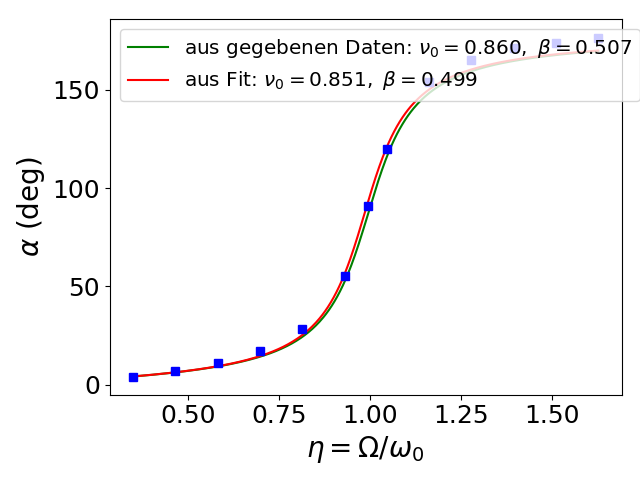
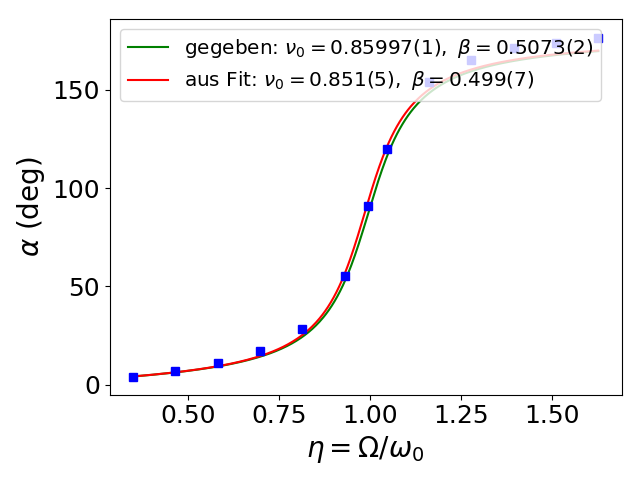
Fehler in den Plots automatisch generiert

Changed region(s): [[0.2812, 0.0625, 1.0, 0.1875], [0.9375, 0.1875, 1.0, 0.2188]]

diff --git a/Versuch2/scripts/schwing_period.py b/Versuch2/scripts/schwing_period.py
@@ -6,7 +6,7 @@ import sys
 sys.path.insert(0,"../../scripts")
 import data_manager as dm
 import fit_functions as ft
-from myPlot import Settings, plot, plot_multi_2
+from myPlot import Settings, plot, plot_multi_2, error_string
 
 
 def get_settings():
@@ -93,16 +93,27 @@ def plot_dampf_smooth(sets,filter_length):
     deviation_smooth = smooth(deviation,filter_length)
     time_smooth = time[filter_length:-filter_length]
     smooth_params, smooth_cov = curve_fit(f,time_smooth,deviation_smooth)
+
+    raw_freq, raw_beta = raw_params[1], raw_params[2]
+    raw_freq_str, raw_beta_str = error_string(raw_freq, np.sqrt(raw_cov[1][1])), error_string(raw_beta, np.sqrt(raw_cov[2][2]))
+    smooth_freq, smooth_beta = smooth_params[1], smooth_params[2]
+    smooth_freq_str, smooth_beta_str = error_string(smooth_freq, np.sqrt(smooth_cov[1][1])), error_string(smooth_beta, np.sqrt(smooth_cov[2][2]))
     
     x_fit = np.linspace(min(time), max(time), fit_samples_number)
     y_fit = [f(x,*raw_params) for x in x_fit]
     y_fit_smooth = f(x_fit, *smooth_params)
     print ("LENGTH OF YS: " + str(len(y_fit_smooth)) + " " + str(len(y_fit)))
     print ("This is smooth covariance: " + str(smooth_cov))
+    #sets.graph_label = ["","",
+    #                    r"$y = A\:\cos(\omega t + \phi)\: e^{-\beta t}$" + "\n"
+    #                    r"$\nu= 2\pi\omega = {:.4f} \:Hz,\ \beta = {:.9f}\:$".format(raw_params[1],raw_params[2]) + r"$s^{-1}$",
+    #                    r"$\nu= 2\pi\omega = {:.4f} \:Hz,\ \beta = {:.9f}\:$".format(smooth_params[1],smooth_params[2]) + r"$s^{-1}$"]
+    
     sets.graph_label = ["","",
                         r"$y = A\:\cos(\omega t + \phi)\: e^{-\beta t}$" + "\n"
-                        r"$\nu= 2\pi\omega = {:.4f} \:Hz,\ \beta = {:.9f}\:$".format(raw_params[1],raw_params[2]) + r"$s^{-1}$",
-                        r"$\nu= 2\pi\omega = {:.4f} \:Hz,\ \beta = {:.9f}\:$".format(smooth_params[1],smooth_params[2]) + r"$s^{-1}$"]
+                        r"$\nu= 2\pi\omega = {} \:Hz,\ \beta = {}\:$".format(raw_freq_str,raw_beta_str) + r"$s^{-1}$",
+                        r"$\nu= 2\pi\omega = {} \:Hz,\ \beta = {}\:$".format(smooth_freq_str,smooth_beta_str) + r"$s^{-1}$"]
+    
     fig, ax = plot_multi_2(sets = sets, x_values = [time,time_smooth,x_fit,x_fit], y_values = [deviation,deviation_smooth,y_fit,y_fit_smooth])
 
 def plot_dampf(sets):
@@ -118,7 +129,11 @@ def plot_dampf(sets):
     deviation = [d-offset for d in deviation_raw]
     raw_params[-1] = 0
 
-    sets.fitted_graph_label += "\n" + r"$\nu= 2\pi\omega = {:.4f} \:Hz,\ \beta = {:.3f}\:$".format(raw_params[1],raw_params[2]) + r"$s^{-1}$"
+    freq, beta = raw_params[1], raw_params[2]
+    freq_str, beta_str = error_string(freq, np.sqrt(raw_cov[1][1])), error_string(beta, np.sqrt(raw_cov[2][2]))
+
+    #sets.fitted_graph_label += "\n" + r"$\nu= 2\pi\omega = {:.4f} \:Hz,\ \beta = {:.3f}\:$".format(raw_params[1],raw_params[2]) + r"$s^{-1}$"
+    sets.fitted_graph_label += "\n" + r"$\nu= 2\pi\omega = {} \:Hz,\ \beta = {}\:$".format(freq_str,beta_str) + r"$s^{-1}$"
 
     fig, ax = plot(sets, time, deviation, f_to_fit = f, params = raw_params)
 
@@ -134,16 +149,27 @@ def plot_frei_smooth(sets,filter_length):
     deviation_smooth = smooth(deviation,filter_length)
     time_smooth = time[filter_length:-filter_length]
     smooth_params, smooth_cov = curve_fit(f,time_smooth,deviation_smooth, p0 = [2,0.8,0])
+
+    raw_freq = raw_params[1]
+    raw_freq_str = error_string(raw_freq, np.sqrt(raw_cov[1][1]))
+    smooth_freq = smooth_params[1]
+    smooth_freq_str = error_string(smooth_freq, np.sqrt(smooth_cov[1][1]))
+
     
     x_fit = np.linspace(min(time), max(time), fit_samples_number)
     y_fit = [f(x,*raw_params) for x in x_fit]
     y_fit_smooth = f(x_fit, *smooth_params)
     print ("LENGTH OF YS: " + str(len(y_fit_smooth)) + " " + str(len(y_fit)))
     print ("This is smooth covariance: " + str(smooth_cov))
+    #sets.graph_label = ["","",
+    #                    r"$y = A\:\cos(\omega t + \phi)$" + "\n"
+    #                    r"$\nu= 2\pi\omega = {:.9f} \:Hz$".format(raw_params[1]),
+    #                    r"$\nu= 2\pi\omega = {:.9f} \:Hz$".format(smooth_params[1])]
     sets.graph_label = ["","",
                         r"$y = A\:\cos(\omega t + \phi)$" + "\n"
-                        r"$\nu= 2\pi\omega = {:.9f} \:Hz$".format(raw_params[1]),
-                        r"$\nu= 2\pi\omega = {:.9f} \:Hz$".format(smooth_params[1])]
+                        r"$\nu= 2\pi\omega = {} \:Hz$".format(raw_freq_str),
+                        r"$\nu= 2\pi\omega = {} \:Hz$".format(smooth_freq_str)]
+    
     fig, ax = plot_multi_2(sets = sets, x_values = [time,time_smooth,x_fit,x_fit], y_values = [deviation,deviation_smooth,y_fit,y_fit_smooth])
 
 
@@ -152,10 +178,15 @@ def plot_frei(sets):
     time, deviation, a = get_data(sets)
     sets.graph_format = sets.graph_format[0]
     
-    popt, cov = curve_fit(f, time, deviation, p0 = [2,0.8,0])
+    params, cov = curve_fit(f, time, deviation, p0 = [2,0.8,0])
+    
+    freq = params[1]
+    freq_str = error_string(freq, np.sqrt(cov[1][1]))
+    
     print ("This is free covariance: " + str(cov))
-    sets.fitted_graph_label += "\n" + r"$\nu= 2\pi\omega = {:.4f} \:Hz$".format(popt[1])
-    fig, ax = plot(sets, time, deviation, f_to_fit = f, params = popt)
+    #sets.fitted_graph_label += "\n" + r"$\nu= 2\pi\omega = {:.4f} \:Hz$".format(params[1])
+    sets.fitted_graph_label += "\n" + r"$\nu= 2\pi\omega = {} \:Hz$".format(freq_str)
+    fig, ax = plot(sets, time, deviation, f_to_fit = f, params = params)
 
 
 def plot_xy_smooth(sets, filter_length, plot_both = False):
@@ -163,7 +194,7 @@ def plot_xy_smooth(sets, filter_length, plot_both = False):
     
     deviation_smooth = smooth(deviation_raw,filter_length)
     angular_velocity_smooth = smooth(angular_velocity_raw,filter_length)
-
+    
     if plot_both:
         fig, ax = plot_multi_2(sets, [deviation_raw,deviation_smooth], [angular_velocity_raw,angular_velocity_smooth])
     else:
@@ -181,10 +212,10 @@ def plot_xy(sets):
 
 '''============================================='''
 if __name__ == "__main__":
-    smoothen = True
+    smoothen = False
     xy = False
     plot_raw_and_smooth = False
-    filter_length = 30
+    filter_length = 20
     sets_list = get_settings()
 
     if (smoothen):

diff --git a/Versuch2/scripts/frequency_response_auto_2.py b/Versuch2/scripts/frequency_response_auto_2.py
@@ -1,0 +1,142 @@
+import numpy as np
+from scipy.optimize import curve_fit
+import matplotlib.pyplot as plt
+from os import listdir
+import pandas
+
+import sys
+sys.path.insert(0,"../../scripts")
+import data_manager as dm
+import fit_functions as ft
+from myPlot import Settings, plot, plot_multi, plot_subplots
+
+
+def get_settings():
+    general_sets_multi = Settings()
+    
+    general_sets_multi.subplots_nrows = 3
+    general_sets_multi.subplots_ncols = 5
+    general_sets_multi.include_legend = False
+        
+    general_sets_multi.x_label = ""
+    general_sets_multi.y_label = ""
+    general_sets_multi.graph_format = "" #respectively color and line style
+    general_sets_multi.error_bar_capsize = 0
+    general_sets_multi.axes_label_fontsize = "medium"
+    general_sets_multi.axes_tick_fontsize = "medium"
+    
+    general_sets_multi.include_legend = True
+    general_sets_multi.graph_label = ""
+    general_sets_multi.legend_fontsize = "medium"
+    general_sets_multi.legend_location = "upper left"
+
+    '''----Settings 1----'''
+    sets1 = general_sets_multi.clone()
+    sets1.dataset_folder = "../datasets/damp1/"
+    sets1.dataset_file_name = listdir(sets1.dataset_folder)
+    
+    '''----Settings 2----'''
+    sets2 = general_sets_multi.clone()
+    sets2.dataset_folder = "../datasets/damp2/"
+    sets2.dataset_file_name = listdir(sets2.dataset_folder)
+
+    '''----Settings 3 for frequency response----'''
+    sets3 = general_sets_multi.clone()
+    sets3.subplots_ncols = 1
+    sets3.subplots_nrows = 1
+    sets3.graph_format = ["bs", "g-"]
+    sets3.fitted_graph_label = "Resonanzkurve"
+    sets3.graph_label = ["", "Theoretische Kurve"]
+    sets3.legend_fontsize = "xx-large"
+
+    '''----Settings 4 for phase curve---'''
+    sets4 =general_sets_multi.clone()
+    sets4.subplots_ncols = 1
+    sets4.subplots_nrows = 1
+    sets4.graph_format = ["bs","g-"]
+    sets4.fitted_graph_label = "Phasenkurve"
+    sets4.legend_fontsize = "xxlarge"
+
+    return [sets1, sets2, sets3, sets4]
+
+def amplitude_frequency(w,w0,doj,b):
+    return doj/(np.sqrt((w0**2-w**2)**2)+4*(b/2)**2*w**2)
+
+def V(A0,n,d):
+    return A0/(np.sqrt((1-n**2)**2+4*d**2*n**2))
+
+def phase_frequency():
+    return 1
+
+
+def get_data(sets):
+    #reads data from datasets specified in Settings
+    datasets = [dm.csv_to_list(sets.dataset_folder + name) for name in sets.dataset_file_name]
+    times = [dm.return_column (dataset, title = "TIME", title_index = 15) for dataset in datasets]
+    forces = [dm.return_column (dataset, title = "CH1", title_index = 15) for dataset in datasets]
+    deviations = [dm.return_column (dataset, title = "CH2", title_index = 15) for dataset in datasets]
+    return datasets, times, forces, deviations
+
+
+if __name__ == "__main__":
+
+    initial_guesses_1 = [[2,0.8,60],[0.2,0.2,60],[0.5,0.4,90],[1,0.5,120],[2,0.6,60],[1.5,0.7,60],[2,0.8,60],[2,1,60],[0.5,1,60],[0.2,1.6,0],[0.2,1.6,60],[0.5,2,60],[0.15,2,-20]]
+    initial_guesses_2 = [[2,0.8,60],[0.2,0.2,60],[0.5,0.4,90],[1,0.5,120],[1,0.6,60],[1.5,0.7,60],[2,0.8,60],[2,1,60],[0.5,1.1,60],[0.2,1.2,0],[0.3,1.3,180],[0.2,1.4,180],[0.15,1.5,-20]]
+    initial_guesses = [initial_guesses_1,initial_guesses_2]
+
+    initial_guesses_forces = [[2,0.8,60],[2,0.3,90],[2,0.4,90],[2,0.5,120],[2,0.6,60],[2,0.7,60],[2,0.8,60],[2,1,60],[2,1,60],[0.2,1.6,0],[0.2,1.6,60],[0.5,2,60],[0.15,2,-20]]
+    freq0s  = [0.859619415952, 0.857223684731]
+    betas = [0.276223958059, 0.507317117254]
+    dojs = [5,9]
+
+    set_list = get_settings()
+    f = ft.cos_phase_offset
+    f2 = amplitude_frequency
+
+    for i in range(2):
+        datasets, times, forces, deviations = get_data(set_list[i])
+        oscillations_params_list, covs = [],[]
+        forces_params_list = []
+        
+        sets = []
+        sets_force = []
+        # plots all wave forms for each anregung
+        for j in range(len(set_list[i].dataset_file_name)):
+            new_setting = set_list[i].clone()
+
+            pzero = initial_guesses[i][j] + [0]
+            popt_o, cov = curve_fit(f,times[j],deviations[j], p0 = pzero)
+            oscillations_params_list.append(popt_o)
+            
+            new_setting.fitted_graph_label = "{:.2f} Hz".format(popt_o[1])
+            sets.append(new_setting)
+        fig, axs = plot_subplots(sets,times,deviations, f_to_fit = f, params = oscillations_params_list)
+
+        #forces plotting
+        for j in range(len(set_list[i].dataset_file_name)):
+            new_setting_force = set_list[i].clone()
+
+            popt, cov = curve_fit(f, times[j], forces[j], p0 = initial_guesses_forces[i] + [0])
+            forces_params_list.append(popt)
+            new_setting_force.fitted_graph_label = "{:.2f} Hz".format(popt[1])
+            sets_force.append(new_setting_force)
+        
+        fig, axs = plot_subplots(sets_force,times,forces, f_to_fit = f, params = forces_params_list)
+        print(set_list[i].dataset_file_name)
+        
+        #amplitude frequency response
+        freqs = np.array([popt[1] for popt in oscillations_params_list])
+        amps = np.array([abs(popt[0]) for popt in oscillations_params_list])
+        frequency_response_params, cov = curve_fit(amplitude_frequency, freqs, amps)
+        freqs2 = freqs*2
+        set_list[2].fitted_graph_label = "Resonanzkurve\nberechnetes " + r"$\beta = {:.4f}$".format(frequency_response_params[-1]) + "\ntheoretisches " + r"$\beta = {:.4f}$".format(betas[i])
+
+        xt = np.linspace(min(freqs), max(freqs), 150)
+        theoretical_amps = [amplitude_frequency(2*np.pi*freq, 2*np.pi*freq0s[i], dojs[i], betas[i]) for freq in xt]
+        x = [freqs, xt]
+        y = [amps, theoretical_amps]
+        fig, ax = plot_multi(set_list[2], x, y, f_to_fit = amplitude_frequency, params = frequency_response_params)
+        
+        phase_response = np.array([popt[2] for popt in oscillations_params_list])
+        
+    plt.show()

diff --git a/Versuch2/scripts/frequency_response.py b/Versuch2/scripts/frequency_response.py
@@ -9,7 +9,7 @@ import sys
 sys.path.insert(0,"../../scripts")
 import data_manager as dm
 import fit_functions as ft
-from myPlot import Settings, plot, plot_multi_2, plot_subplots
+from myPlot import Settings, plot, plot_multi_2, plot_subplots, error_string
 
 
 def get_settings():
@@ -83,6 +83,7 @@ def phase_frequency_boh(w,beta,w0):
             ret[i] = (np.arctan(args[i])+np.pi)*180/np.pi
     return ret
 
+
 def get_data(sets):
     #reads data from datasets specified in Settings
     dataset = dm.csv_to_list(sets.dataset_folder + sets.dataset_file_name)
@@ -125,10 +126,15 @@ def plot_amplitude(sets, beta, f0):
     x_fit = frequency_axis/f0_fit
     y_fit = f(frequency_axis*2*np.pi, *params)/A0_fit
 
+    print (cov)
+    beta_fit_str = error_string(beta_fit, np.sqrt(cov[0][0]))
+    f0_fit_str = error_string(f0_fit, np.sqrt(cov[2][2]))
+    print("THIS IS BETA: " + str(beta_fit))
+    print ("THIS IS BETA ERR STRING: " + str(beta_fit_str))
     #v = np.array(amplitude)/(amplitude[0][1])
     v = np.array(amplitude)/A0_fit
 
-    sets.graph_label = ["", "aus gegebenen Daten: " + r"$\nu_0 = {:.3f},\ \beta = {:.3f}$".format(f0, beta),"aus fit: " + r"$\nu_0 = {:.3f}\ \beta = {:.3f}$".format(f0_fit, beta_fit)]
+    sets.graph_label = ["", "gegeben : " + r"$\nu_0 = {}(1),\ \beta = {:.4f}(2)$".format(f0, beta),"aus fit: " + r"$\nu_0 = {}\ \beta = {}$".format(f0_fit_str, beta_fit_str)]
 
     fig, ax = plot_multi_2(sets, x_values = [n[0], n_axis, x_fit], y_values = [v[0], y_theoretical, y_fit],
             x_err = [n[1], [], []], y_err = [v[1], [], []])
@@ -145,7 +151,7 @@ def plot_phase(sets, beta, f0):
     n = np.array(frequency)/f0
     frequency_axis = np.linspace(min(frequency[0]), max(frequency[0]), curve_samples_number)
     n_axis = frequency_axis/f0
-    y_theoretical = phase_frequency(n_axis,np.zeros(len(n_axis)) + d)
+    y_theoretical = phase_frequency(n_axis, d)
     
     #Kurve aus Fit
     omega = np.array(frequency)*2*np.pi
@@ -154,7 +160,12 @@ def plot_phase(sets, beta, f0):
     f0_fit = omega0_fit/(2*np.pi)
     y_fit = phase_frequency_boh(frequency_axis*2*np.pi, *params)
 
-    sets.graph_label = ["","aus gegebenen Daten: " + r"$\nu_0 = {:.3f},\ \beta = {:.3f}$".format(f0,beta),"aus Fit: "+ r"$\nu_0 = {:.3f},\ \beta = {:.3f}$".format(f0_fit, beta_fit)]
+    beta_fit_str = error_string(beta_fit,np.sqrt(cov[0][0]))
+    f0_fit_str = error_string(f0_fit, np.sqrt(cov[1][1]))
+    print("THIS IS f0: " + str(f0_fit))
+    print ("THIS IS f0 ERR STRING: " + str(f0_fit_str))
+
+    sets.graph_label = ["","gegeben: " + r"$\nu_0 = {}(1),\ \beta = {:.4f}(2)$".format(f0,beta),"aus Fit: "+ r"$\nu_0 = {},\ \beta = {}$".format(f0_fit_str, beta_fit_str)]
 
     fig, ax = plot_multi_2(sets, x_values = [n[0], n_axis, n_axis], y_values = [phase_difference[0], y_theoretical, y_fit],
             x_err = [n[1], [], []], y_err = [phase_difference[1], [], []])
@@ -162,7 +173,7 @@ def plot_phase(sets, beta, f0):
 
 if __name__ == "__main__":
     sets_list = get_settings()
-    betas = np.array([0.27622, 0.507317])
+    betas = np.array([0.27621, 0.50732])
     f0 = 0.85997
 
     print ("Gegebene: d = {}, {}".format(betas[0]/(2*np.pi*f0),betas[1]/(2*np.pi*f0)))

diff --git a/scripts/myPlot.py b/scripts/myPlot.py
@@ -232,3 +232,45 @@ def plot_subplots (sets,x_values, y_values, x_err = [], y_err = [], f_to_fit = N
             plot_file_name = "{}{}-{}-{}-{}.png".format(sets[0].plot_folder, sets[0].dataset_file_name,f_to_fit.__name__, sets[0].x_column_caption, sets[0].y_column_caption)
             plt.savefig(plot_file_name)#, bbox_inches ="tight")
     return fig, axs
+
+def error_string(value, error):
+    #currently works only with errors<1
+    value_l = list(str(value))
+    error_l = list(str(error))
+
+    if (len(value_l)<len(error_l)):
+        value_l += ['0' for i in range(len(error_l)-len(value_l))]
+    #print ("THIS IS ERROR IN: " + str(error))
+    
+    index_v, index_e = 0,0
+    #part1
+    try:
+        if error_l[-4] == 'e':
+            #index = 1 + int("".join(error_l[-2:]))
+            ex = int("".join(error_l[-2:]))
+            additional_values = ['0']+['.']+['0' for i in range(ex-1)]
+            error_l = additional_values + error_l
+            del(error_l[-4:])
+    except:
+        print ("Boh")
+    
+    for i in range(len(error_l)):
+        if error_l[i]!='0' and error_l[i]!='.':
+            index_e, index_v = i,i
+            if(value_l[1] == '.'):
+                index_v += 1
+            break
+    
+    try:
+        if int(value_l[index_e + 1]) >= 5:
+            value_l[index_e] = str(int(value_l[index_e]) + 1)
+    except: print("boh")
+    try:
+        if int(error_l[index_e + 1]) >= 5:
+            error_l[index_e] = str(int(error_l[index_e]) + 1)
+    except: print("booh")
+
+    value_l = value_l[:index_v]
+    value_l.append('(' + str(error_l[index_e]) + ')')
+
+    return "".join(value_l)
